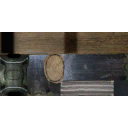
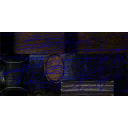
v1.0.1 - add 10 horse textures, fix Rebuild Previews not clearing shipped thumbnails

diff --git a/ERSwapper.Core/ThumbnailCache.cs b/ERSwapper.Core/ThumbnailCache.cs
@@ -135,15 +135,29 @@ public static class ThumbnailCache
         return deleted;
     }
 
-    public static void Clear()
+    public static int Clear()
     {
+        return DeletePngsIn(Directory) + DeletePngsIn(ShippedDirectory);
+    }
+
+    private static int DeletePngsIn(string directory)
+    {
+        int deleted = 0;
+
         try
         {
-            foreach (string file in System.IO.Directory.EnumerateFiles(Directory, "*.png"))
+            foreach (string file in System.IO.Directory.EnumerateFiles(directory, "*.png"))
             {
-                try { File.Delete(file); } catch { }
+                try
+                {
+                    File.Delete(file);
+                    deleted++;
+                }
+                catch { }
             }
         }
         catch { }
+
+        return deleted;
     }
 }

diff --git a/ERSwapper/MainForm.cs b/ERSwapper/MainForm.cs
@@ -699,11 +699,13 @@ public partial class MainForm : Form
 
         if (confirm != DialogResult.Yes) return;
 
-        ThumbnailCache.Clear();
+        int deleted = ThumbnailCache.Clear();
         _thumbnails.Images.Clear();
 
         foreach (ListViewItem item in lstItems.Items) item.ImageKey = "";
         lstItems.Invalidate();
+
+        SetStatus($"Deleted {deleted} cached preview(s). Rebuilding…");
 
         var generator = new ThumbnailGenerator(_settings, _locator);
 
